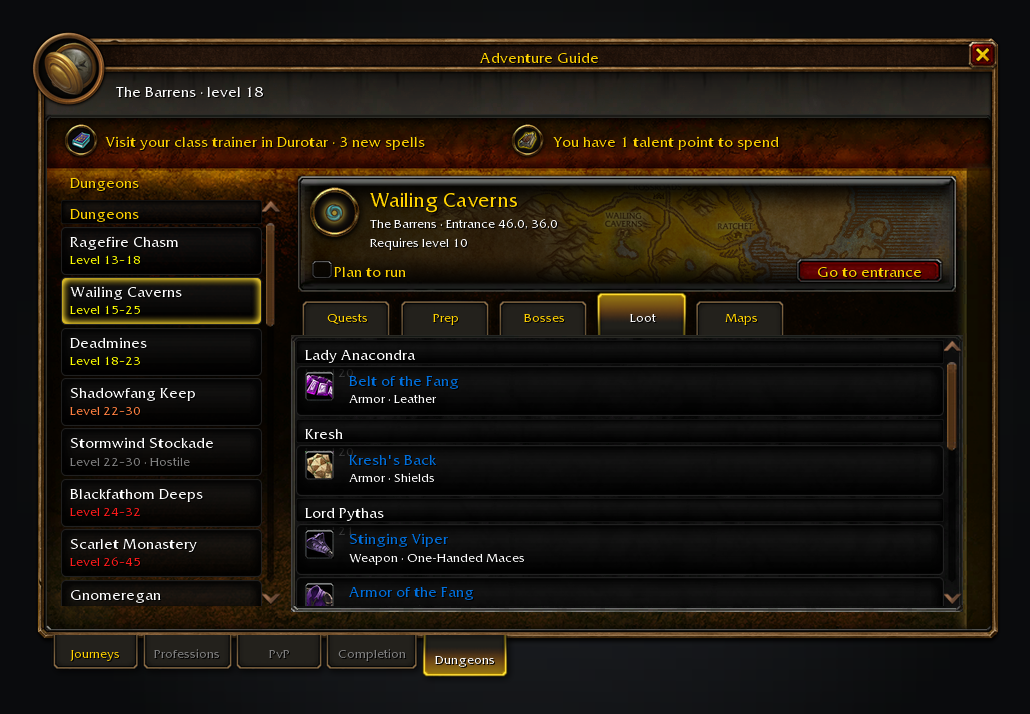
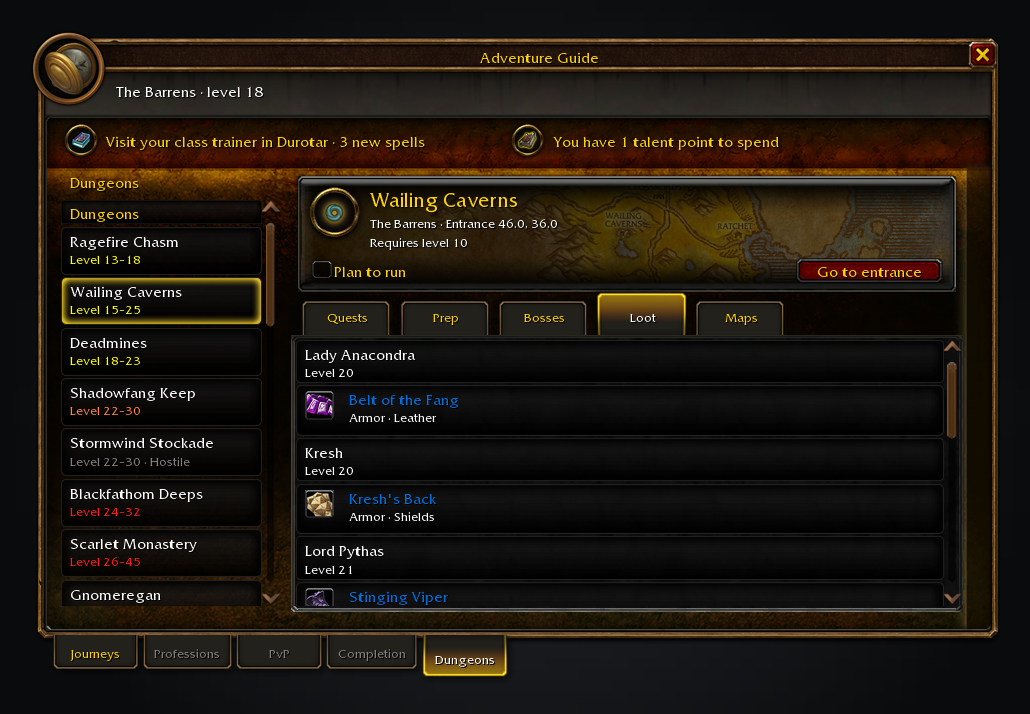
fix(dungeons): size a loot heading for its level line (#98)
## Summary

- In a dungeon's Loot view, each boss's level line was drawn over the
first item row beneath it. `Window.SetList` gave every heading the
one-line height (22), while a loot heading also draws an info line at y
21.
- A heading that carries an info line now gets a two-line height (38).
Headings without one (the dungeon list's section headings, the Trash
group, a boss with no known level) keep 22, and the Bosses view's jump
to a boss's loot still lands on the heading because it reads the same
measured tops.
- `docs/screenshots/dungeons_loot.png` and the manifest are regenerated,
since the fix changes that view. No other screenshot changed.

## Test plan

- [x] New case in `tests/ui_decisions_spec.lua`: the level line ends
above the first item and inside its heading row; fails with the fix
reverted
- [x] Every command in the `AGENTS.md` Commands section passes
- [ ] `/reload` test: Dungeons tab, Wailing Caverns, Loot view with
AtlasLoot loaded: each boss's level sits clear of its first item;
clicking a boss in the Bosses view scrolls to its loot

🤖 Generated with [Claude Code](https://claude.com/claude-code)

https://claude.ai/code/session_01BgazRA7VewjAr3G1BAuUhw

---------

Changed region(s): [[0.2796, 0.5238, 0.901, 0.8627], [0.901, 0.6162, 0.932, 0.6471]]

diff --git a/CHANGELOG.md b/CHANGELOG.md
@@ -11,6 +11,9 @@ verbatim rather than rewritten as the addon moves.
 
 ## [Unreleased]
 
+- **A boss's level no longer runs into its loot.** In a dungeon's Loot view, the level under each boss's name was drawn over the first item beneath it. The boss heading is now tall enough for both lines, and the Bosses view still jumps to the right place in the list.
+- **View loot opens at the boss you picked.** From the Bosses view, *View loot* on a boss far down the list stopped short and showed an earlier boss's items. It now opens the Loot view at that boss's heading.
+
 ## [0.7.0] - 2026-10-03
 
 - **Quest data loads sooner after login and a reload.** While "Loading quest data..." was up, the guide asked QuestieDB where the same creature or object is found once for every quest that needs it, tens of thousands of times in all. It now asks once for each, under a third of the reading, so the journeys and the tracker fill in sooner.
